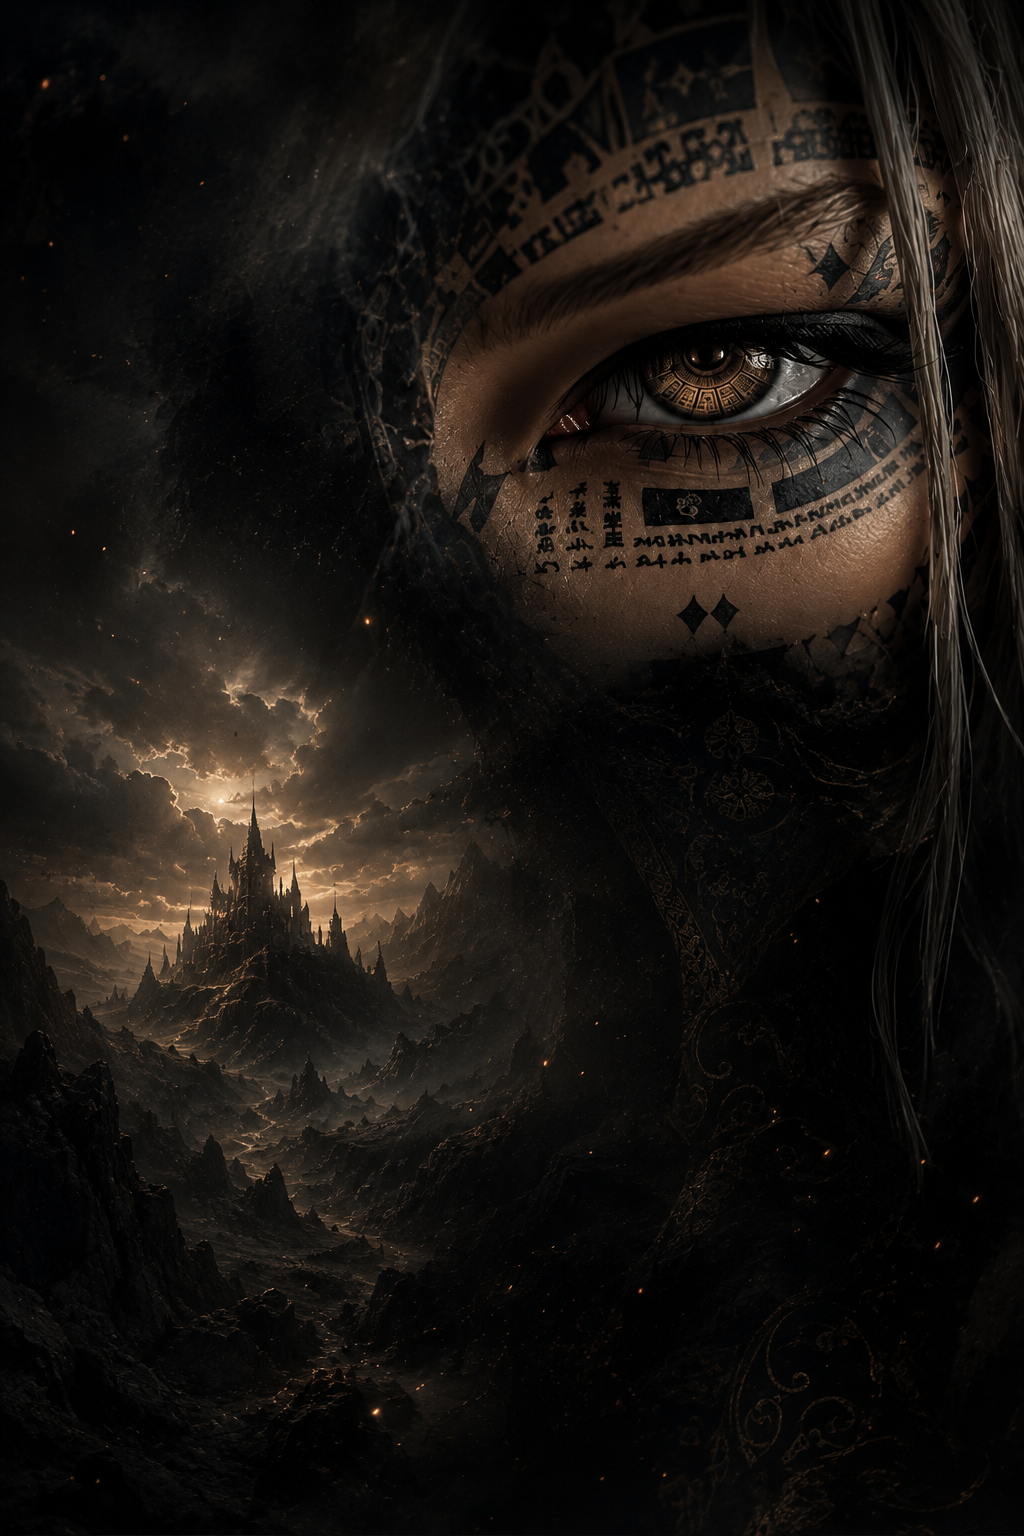
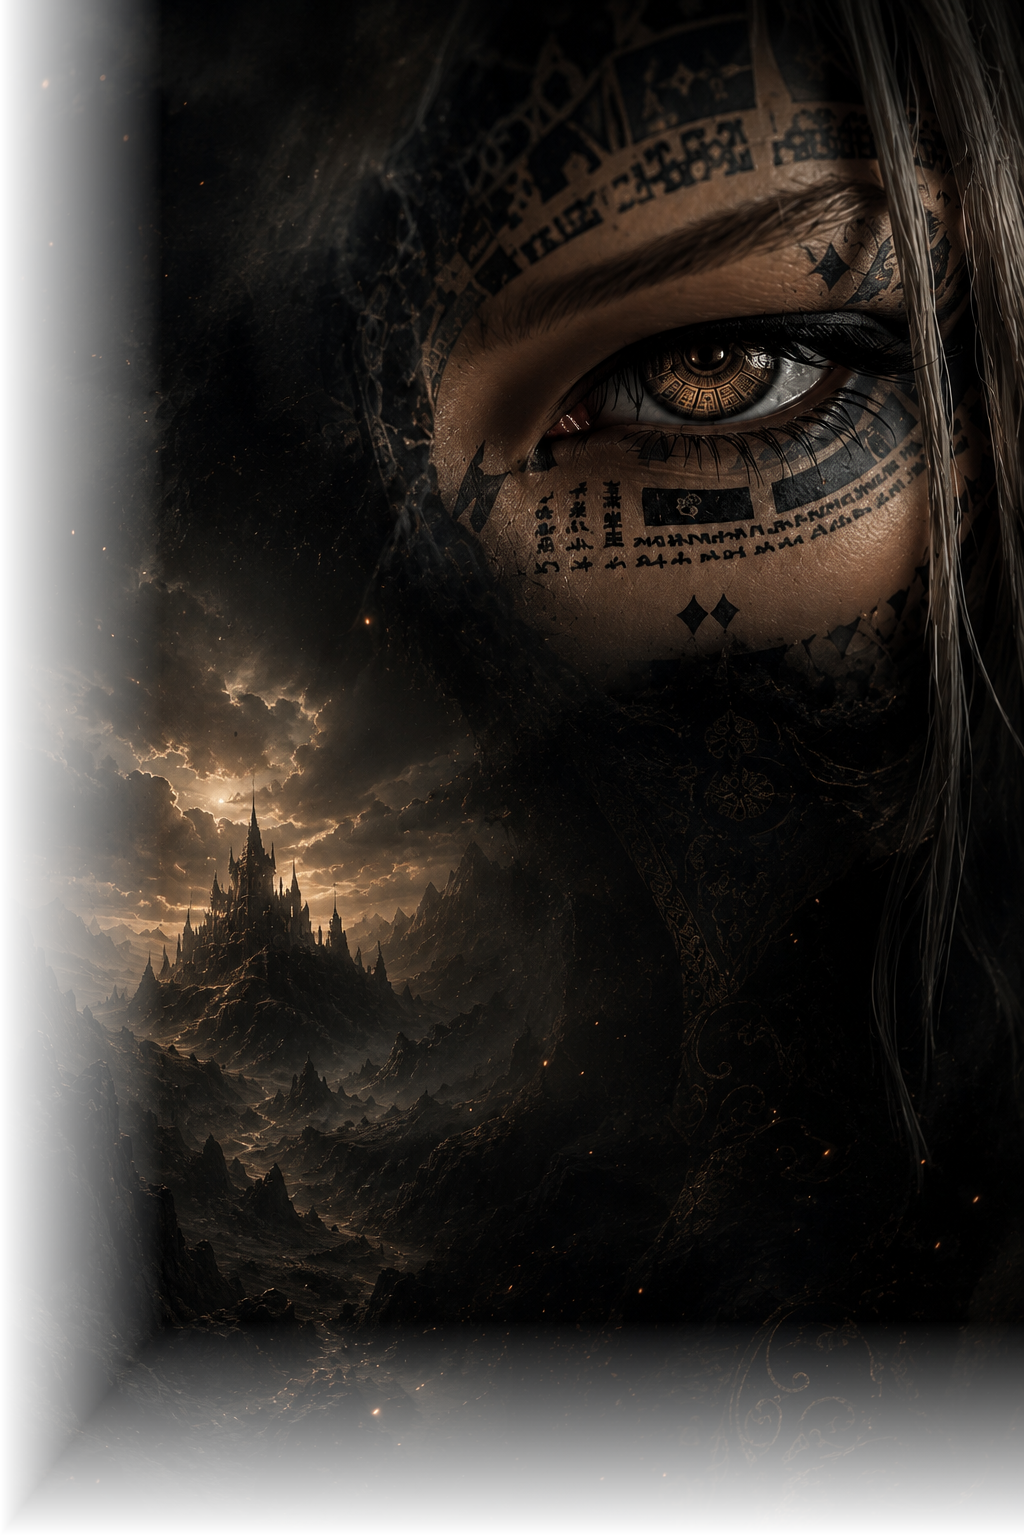
Fix the hard hero edge by baking a soft fade into the artwork itself
No CSS treatment (wash, mask, shadow) was acceptable — each one read
as something layered on top of the art, blocking it. But with zero CSS
treatment, the image's own rectangular boundary against the canvas was
a hard, visible seam in both themes.

Resolved by editing the source PNGs directly instead of the CSS: both
resources/{dark,light}.png (and their public/hero-*.png copies) now
carry a real alpha-channel gradient baked into the pixels — opaque
through most of the frame, fading to fully transparent over the
leftmost ~16% of width and the bottom ~14% of height. Built with PIL +
numpy (a float32 linspace ramp written into the RGBA array's alpha
channel). page-background.tsx is unchanged from the previous commit —
still just backgroundImage/backgroundPosition/backgroundSize, nothing
else — the artwork now simply has a soft edge of its own, the same way
a real photograph would, so it blends into the canvas with no separate
layer sitting on top of it and no hard cutoff.

Also removed the now-fully-unused --hero-stat-grad token from
globals.css (dead since the stat-shadow div was removed from
PageBackground several commits ago).

Claude-Session: https://claude.ai/code/session_01Fea2oCfRToCiqneAD3PPtr

Changed region(s): [[0.0, 0.0, 1.0, 1.0]]

diff --git a/src/app/globals.css b/src/app/globals.css
@@ -60,16 +60,6 @@
   --wash-rgb: 250, 248, 245;
   --hero-lower-bright: 1.08;
   --grain-opacity: 0.3;
-  /* Full-bleed vertical halo behind the hero stats (light). Fades in above the
-     stats and fades back out below them (light-on-light needs no bottom edge). */
-  --hero-stat-grad: linear-gradient(
-    to bottom,
-    transparent 14vh,
-    rgba(250, 248, 245, 0.4) 26vh,
-    rgba(250, 248, 245, 0.68) 34vh,
-    rgba(250, 248, 245, 0.18) 48vh,
-    transparent 62vh
-  );
 
   /* Carved-material card */
   --card-top: #ffffff;
@@ -126,20 +116,6 @@
   --wash-rgb: 10, 10, 11; /* near-black neutral, matches canvas */
   --hero-lower-bright: 0.32;
   --grain-opacity: 0.5;
-  /* Full-bleed vertical shadow that grounds the hero stats (dark). Over the
-     visible band (above the cards) it's only a translucent veil so the face
-     still reads through it as it fades up; it goes fully dark below the stats
-     (behind the opaque cards) and STAYS dark to the page's end, so its
-     origin/bottom edge is never visible. Full-bleed = no side edge. */
-  --hero-stat-grad: linear-gradient(
-    to bottom,
-    transparent 12vh,
-    rgba(0, 0, 0, 0.18) 22vh,
-    rgba(0, 0, 0, 0.42) 30vh,
-    rgba(0, 0, 0, 0.62) 36vh,
-    rgba(0, 0, 0, 0.9) 42vh,
-    rgba(0, 0, 0, 0.9) 100%
-  );
 
   /* Carved-material card — near-black neutral base, only a whisper of warmth
      so the material reads on close look, never as brown. */

diff --git a/CLAUDE.md b/CLAUDE.md
@@ -212,28 +212,38 @@ DESIGN_SYSTEM.md         # full visual spec (colours, fonts, materials)
   - Light & dark are **matched compositions**, so one `--hero-size` /
     `--hero-pos` serves both and the face never moves on theme toggle.
   - `--hero-size: 46%` (width-based; height follows the portrait's own aspect
-    ratio) at `--hero-pos: right top`, inside a **`h-[95vh]`** band (taller
-    than the old 16:9 mechanism needed, so the castle low in the frame clears
-    the bottom fade before it cuts off). Bleeds off the top and right edges;
-    two intersecting masks feather only the left and bottom into canvas.
+    ratio) at `--hero-pos: right top`, inside a **`h-[95vh]`** band. Bleeds
+    off the top and right edges.
+  - **No CSS overlay of any kind** — no wash, no fade, no shadow, no
+    `mask-image`. `PageBackground` sets only
+    `backgroundImage`/`backgroundPosition`/`backgroundSize` on a single div.
+    This was explicit, repeated user direction: any color wash read as
+    "dimming," and even a pure-alpha `mask-image` feather (no color, just
+    transparency) still read as "a card blocking the art." Don't reintroduce
+    either.
+  - Instead, **the soft edge is baked into the PNG files themselves**: both
+    `resources/{dark,light}.png` (and their `public/hero-*.png` copies) are
+    RGBA with a real alpha-channel gradient — fully opaque through most of
+    the frame, fading to 0 over the leftmost ~16% of width and the bottom
+    ~14% of height. Generated with PIL + numpy (open RGB, build a `float32`
+    alpha ramp with `np.linspace`, write it into the array's alpha channel,
+    save as RGBA) — see git history on this file for the exact script if the
+    source art changes again. This is what makes "no CSS treatment, no hard
+    seam" both true at once: the fade is part of the asset, not a layer on
+    top of it.
   - Small circular hero-crops elsewhere (header avatar, sidebar profile photo)
     use `background-position: "68% 25%"` on `var(--hero)` to center on the eye.
   - If the source art changes again, re-derive `--hero-size`/`--hero-pos`/the
-    band height from the new image's own eye/subject coordinates — don't just
-    keep the old numbers. `resources/README.md`-style grid-overlay measurement
-    (crop the source with PIL, draw a coordinate grid, read pixel positions)
-    is far faster than eyeballing.
-- **The stat "shadow"** (the dark pool grounding the quick-actions row) lives
-  in `PageBackground` as a **full-bleed** layer (`--hero-stat-grad`), *not*
-  inside the content. This was iterated on heavily. Rules that must hold:
-  - Full-bleed so it has **no left/right edge**.
-  - A `to bottom` linear gradient that fades in **above** the row and stays
-    dark **from the row all the way down to the page's end** → **no bottom
-    edge** (its origin is never visible; the opaque cards hide it).
-  - `vh` stops target the quick-actions row's on-screen position (sits
-    ≈ 12–22vh at 1536×1024 with the current, shorter hero-text block;
-    re-probe if the hero text or row height changes).
-  - Dark mode = real dark pool; light mode = bounded soft halo.
+    band height AND regenerate the alpha-fade PNGs from the new image's own
+    eye/subject coordinates and dimensions — don't just keep the old numbers.
+    `resources/README.md`-style grid-overlay measurement (crop the source
+    with PIL, draw a coordinate grid, read pixel positions) is far faster
+    than eyeballing.
+- Historical note: earlier revisions of this hero treatment had a full-bleed
+  "stat shadow" gradient (`--hero-stat-grad`) grounding the area below the
+  hero text. It's gone — removed along with the rest of the overlay
+  treatment — and the CSS token was deleted from `globals.css`. Don't
+  resurrect it without a fresh explicit request.
 - **The hero background is dashboard-only** — every other page has a plain
   canvas background, no oracle face. `(app)/layout.tsx` is a client component
   (`usePathname`) that renders `<PageBackground />` only when
